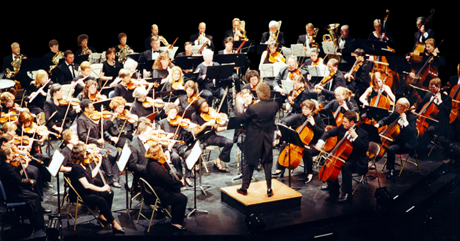
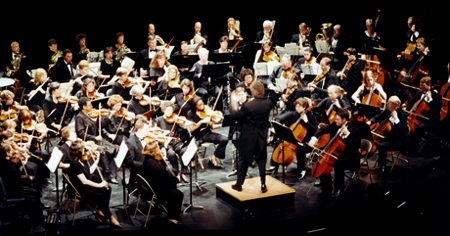
updated image sizes, hard coded youtube on homepage, schedule on homepage, I think ready for initial beta release

diff --git a/templates/home.html b/templates/home.html
@@ -4,7 +4,8 @@
     {% if primary_event.youtube_video %}
         {{ primary_event.youtube_video|safe }}
     {% else %}
-        {% include "inc/youtube.html" %}
+    <object width="470" height="385"><param name="movie" value="http://www.youtube.com/v/-ysTZ4TaCmQ&hl=en_US&fs=1&"></param><param name="allowFullScreen" value="true"></param><param name="allowscriptaccess" value="always"></param><embed src="http://www.youtube.com/v/-ysTZ4TaCmQ&hl=en_US&fs=1&" type="application/x-shockwave-flash" allowscriptaccess="always" allowfullscreen="true" width="470" height="385"></embed></object>
+    <!-- {% include "inc/youtube.html" %} -->
     {% endif %}
 {% endblock %}
 
@@ -26,11 +27,25 @@
 {% block concert %}
     {% if primary_event.date %}
     <div class="primary">
-        {% if primary_event.display %}
-            <div class="image">
-                <img src="{{primary_event.display.url}}" alt="Event promo image"/>
+        <div class="image">
+                {% if primary_event.thumb.url %}
+                
+                    <img src="/{{primary_event.thumb.url}}" class="event_img" alt="event image"/>
+                
+                    {% else %}
+
+                    <!-- this is so ugly, have to fix this ASAP!  -->
+                    {% if primary_event.pieces.all %}
+                        {% for p in primary_event.pieces.all %}
+                            {% for s in p.soloist.all %}
+                                {% if s.display.url %}
+                                    <a href="{{s.get_absolute_url}}"><img src="/{{s.display.url}}" class="event_img" alt="{{s}}"/></a>
+                                {% endif %}
+                            {% endfor %}
+                        {% endfor %}                     
+                    {% endif %}    
+                {% endif %}   
             </div>
-        {% endif %}
             <div class="description">
                 <h2>{{primary_event.name}}</h2>
                 <div>{{ primary_event.date|date:"l, F jS Y" }}</div>
@@ -58,10 +73,24 @@
             </div>
     </div>
     {% else %}
-        <p>No events found. Please add an event.</p>
+        {% if season %}
+        <div class="hp_season">
+            <h2>Presenting the {{season}}</h2>
+            <div class="image">
+                <img src="/site_media/photo.png"/>
+            </div>
+            <div class="description">
+            <ul class="concert">
+            {% for e in season.event_set.all %}
+                <li><a href="{{season.get_absolute_url}}#{{e.slug}}">{{e.name}}</a> &mdash; <em>{{e.date|date:"l, F jS Y"}}</em></li>
+            {% endfor %}
+            </ul>
+            </div>
+        </div>
+        {% endif %}
     {% endif %}
     
-   
+<!--   
     {% if secondary_event.date %}
         <div class="secondary">
             <div class="description">
@@ -79,10 +108,10 @@
     {% else %}
         {%comment%}<p>No events found. Please add an event.</p>{%endcomment%}
     {% endif %}
-   
-    
+    -->
+
         
     <div class="description">
-        <p class="tickets">For advance tickets, please visit our Tickets page. Tickets will also be available at the door. <em>We are not equipped to process credit cards at the door; we are happy to accept cash or personal checks.</em></p>
+        <p class="tickets">For advance tickets, please <a href="/tickets/">visit our Tickets page</a>. Tickets will also be available at the door. <em>We are not equipped to process credit cards at the door; we are happy to accept cash or personal checks.</em></p>
     </div>    
 {% endblock %}

diff --git a/site_media/styles.css b/site_media/styles.css
@@ -1,5 +1,5 @@
 body { margin:0;padding:0;background-color:#333; font: 62.5%/1.4 verdana, sans-serif; }
-.description h2, .description div, .main h2, .subpage h1 { font-family: Georgia, Cambria, "Times New Roman", Times, serif; }
+.description h2, .description div, .main h2, .subpage h1, .hp_season h2, .hp_season .concert { font-family: Georgia, Cambria, "Times New Roman", Times, serif; }
 img { border: 0; }
 
 .content { /*width: 75%;*/ }
@@ -66,18 +66,20 @@ dd{ margin-left: 19em; }
 .next_bg { background-color: #be9521; /*margin-bottom: 4em;*/ }
 .next_bg_home { margin-bottom: 4em; }
 .next_concert { background-color: #fbbf13; position: relative; top: 15px; -moz-box-shadow: 5px 8px 8px #111; -webkit-box-shadow: 5px 8px 8px #111; box-shadow: 5px 8px 8px #111; overflow: auto; padding: 2em; }
-.image { }
-.image img { border: 10px solid white; -moz-border-radius: 0px; -moz-box-shadow: 4px 4px 8px rgba(0,0,0,.5); float: left; }
+.image { width: 47em; text-align:center; float:left; }
+.image img { border: 10px solid white; -moz-border-radius: 0px; -moz-box-shadow: 4px 4px 8px rgba(0,0,0,.5); }
 .next_concert .description { float: right; width: 47em; z-index:2; }
 
 
-.description h2 { font-size: 2.6em; text-shadow: 3px 3px 6px rgba(0,0,0,.4); margin-bottom: .4666em; padding-bottom: .4666em; border-bottom: 1px solid #9d7a17; border-bottom: 1px solid rgba(0,0,0,.3) }
+.description h2, .hp_season h2 { font-size: 2.6em; text-shadow: 3px 3px 6px rgba(0,0,0,.4); margin-bottom: .4666em; padding-bottom: .4666em; border-bottom: 1px solid #9d7a17; border-bottom: 1px solid rgba(0,0,0,.3) }
 .description div { font-size: 1.6em; }
 .description div.conductor { font-style: italic; }
 .description p { font-size: 1.3em; }
 .description p.tickets { font-size: 1.1em; padding-top: 1.2em; border-top: 1px solid #9d7a17; border-top: 1px solid rgba(0,0,0,.3) }
 .description a { color:#000; text-decoration: none; border-bottom: 1px dotted #000;}
 .description a:hover { color: #008; border-bottom: 1px solid #008;}
+.hp_season .concert { list-style-type:none; font-size: 1.6em; padding-left: 1em; }
+.hp_season .concert em { white-space: nowrap; font-size: .85em; }
 
 .col p, .col ul li a { font-size: 1.3em; }
 

diff --git a/templates/season.html b/templates/season.html
@@ -10,7 +10,7 @@
         
             {% if events %}
             {% for event in events %}
-            <div class="vevent">
+            <div class="vevent" id="{{event.slug}}">
                 
                 <h4 class="summary">{{ event.name }}</h4>
                 {% if event.thumb.url %}

diff --git a/homepage_viewer/views.py b/homepage_viewer/views.py
@@ -5,6 +5,7 @@ from django.shortcuts import render_to_response
 import datetime
 import random
 from django.core.cache import cache
+from orch.events.views import get_current_season
 
 # Create your views here.
 
@@ -16,10 +17,30 @@ def home(request):
     m = get_member()
     p = get_primary()
     s = get_secondary()
-    
-    return render_to_response('home.html', {'member': m, 'primary_event': p, "secondary_event": s}, 
+
+    if((datetime.datetime.today() + datetime.timedelta(60)) < p.date):
+        season = get_season()
+        disp_season = True
+
+    if disp_season:
+        return render_to_response('home.html', {'member': m, 'season': season }, 
                               context_instance=RequestContext(request))
-   
+    else:
+        return render_to_response('home.html', {'member': m, 'primary_event': p, "secondary_event": s}, 
+                              context_instance=RequestContext(request))
+ 
+
+def get_season():
+    season = cache.get('season')
+
+    if season:
+        return season
+
+    season = get_current_season()
+
+    cache.set('season', season, CACHE_TIME )
+    return season
+
 
 def get_member():
     member = cache.get('member')

diff --git a/soloists/soloist_specs.py b/soloists/soloist_specs.py
@@ -9,7 +9,7 @@ class ResizeThumb(processors.Resize):
 	
 class ResizeDisplay(processors.Resize):
     width = 460
-    height = 300 
+    height = 380 
 	
 class EnchanceThumb(processors.Adjustment):
 	contrast = 1.2
